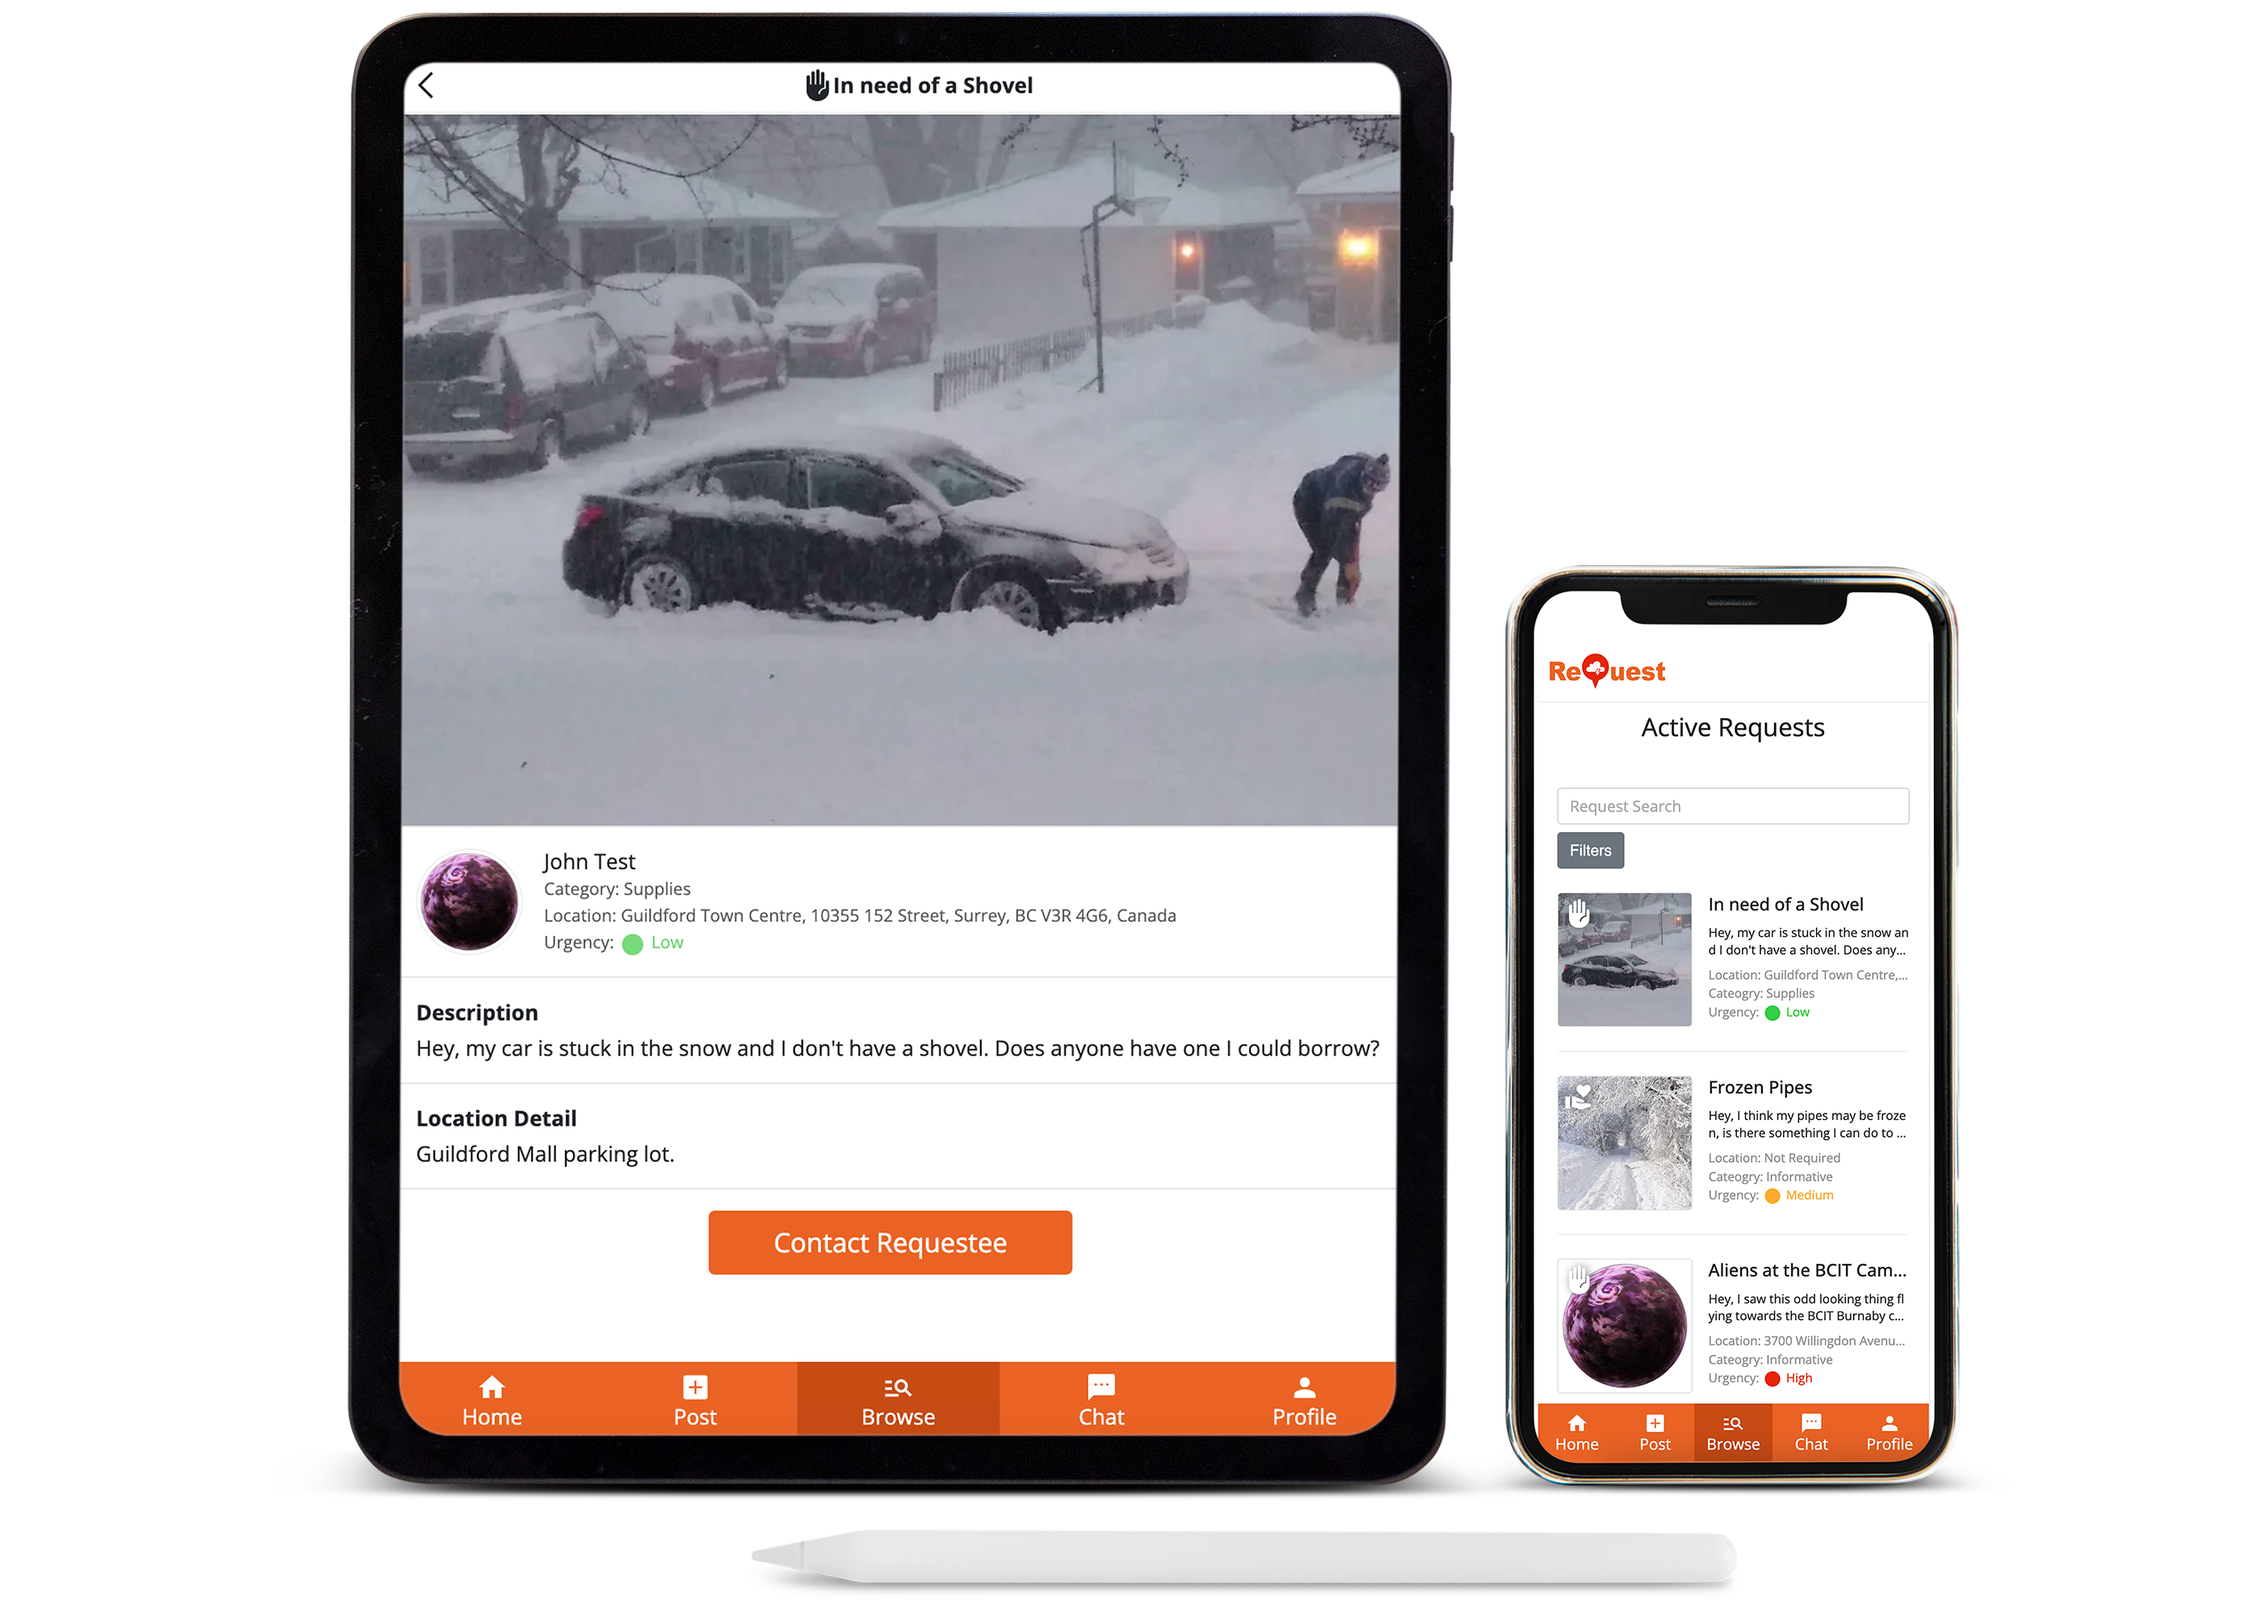
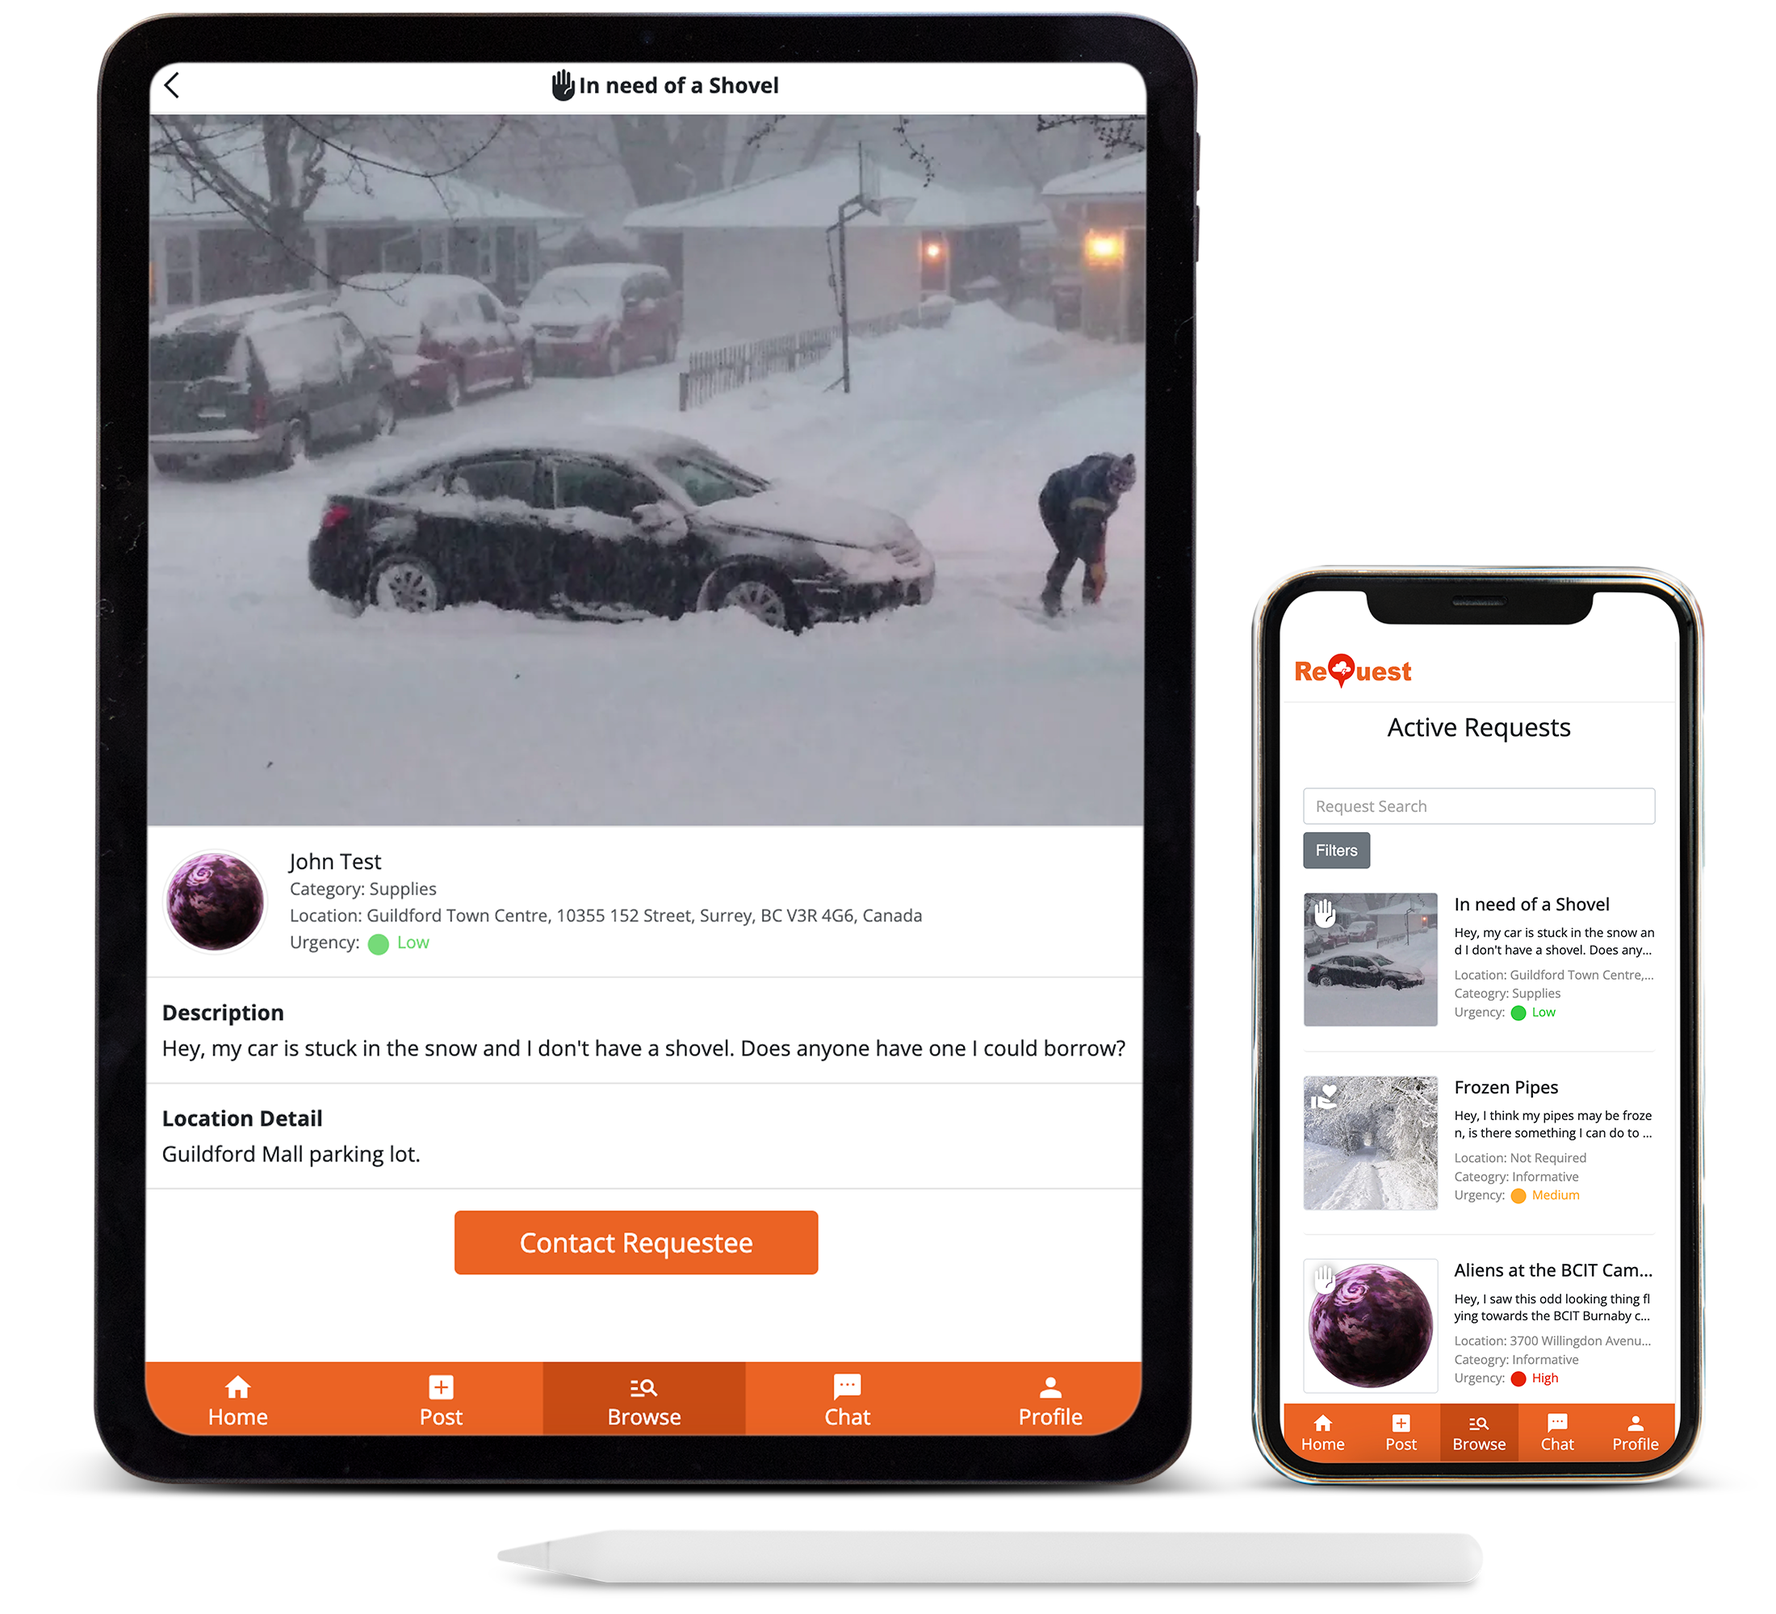
Update mockup img with less paddings

diff --git a/app/html/index.html b/app/html/index.html
@@ -43,8 +43,7 @@
   <div class="container col-xxl-8 px-4 py-5 mt-3">
     <div class="row flex-lg-row-reverse align-items-center g-5 py-5">
       <div class="col-lg-6">
-        <img src="/img/mockup.png" class="d-block mx-lg-auto img-fluid" alt="Bootstrap Themes" width="700"
-          height="500" loading="lazy">
+        <img src="/img/mockup.png" class="d-block mx-lg-auto img-fluid" alt="Request Mockup" loading="lazy">
       </div>
       <div class="col-lg-5">
         <h1 class="display-5 fw-bold lh-1 mb-3">Working together, as a community</h1>
